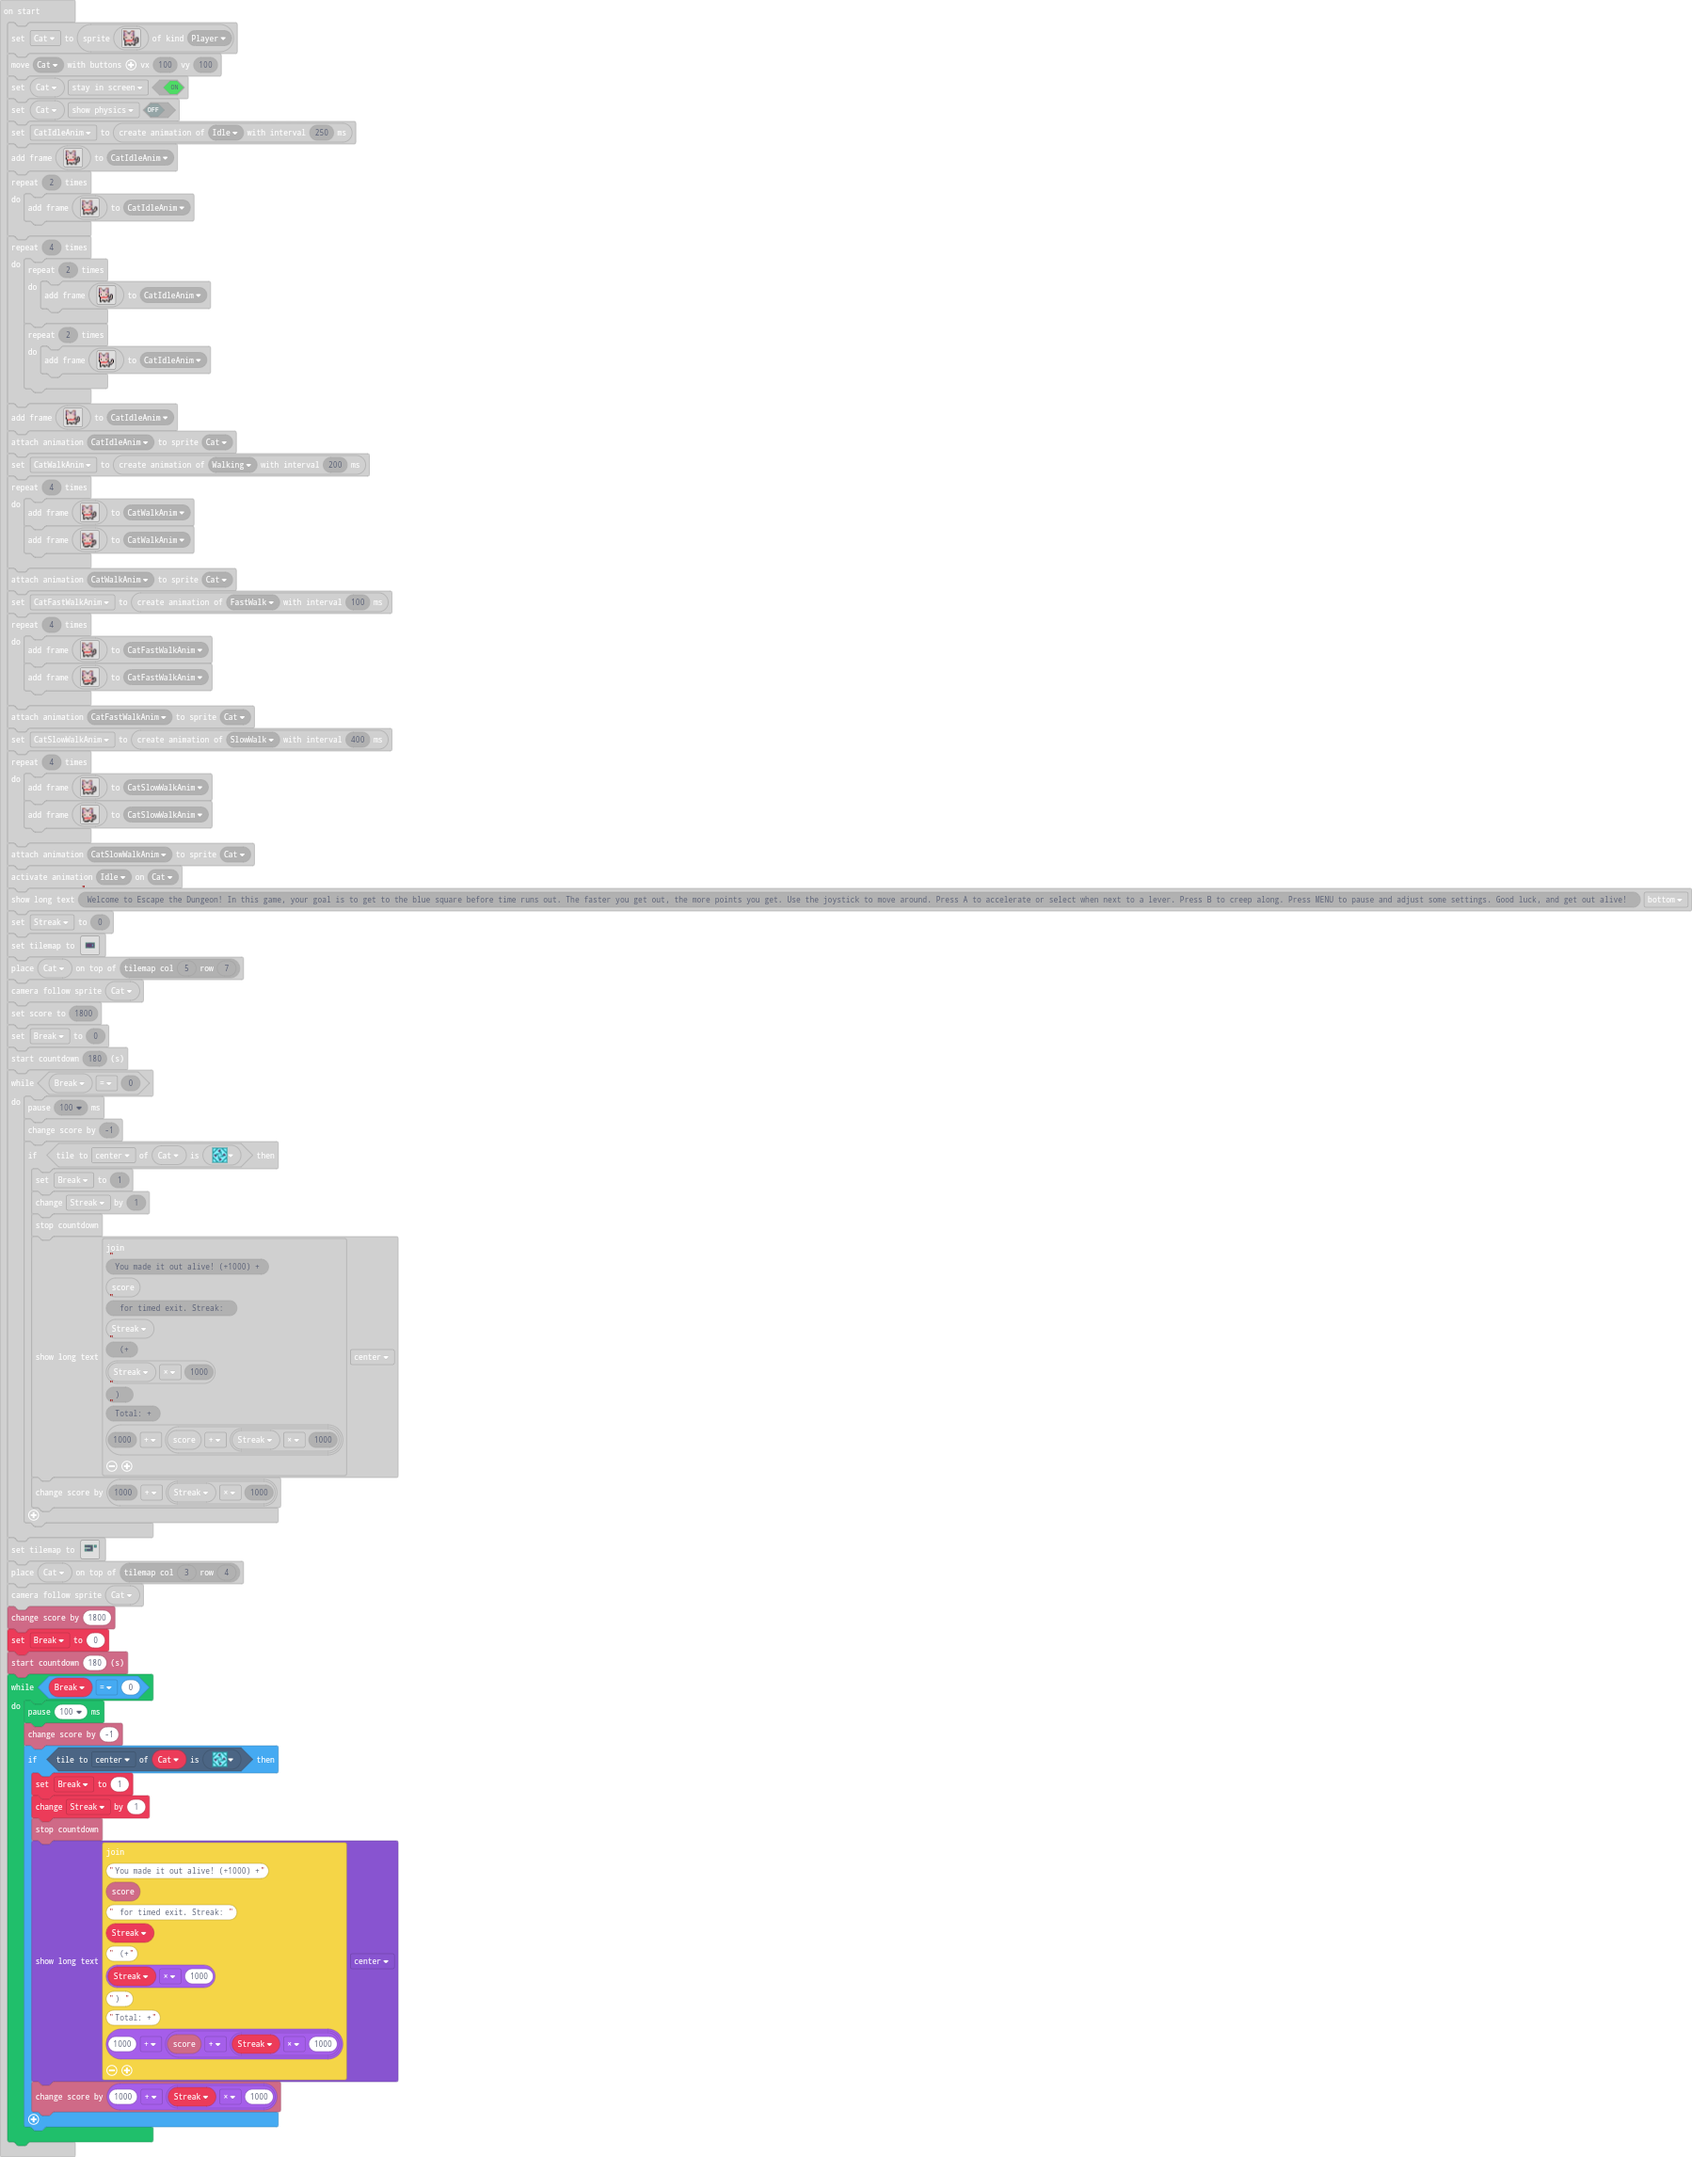
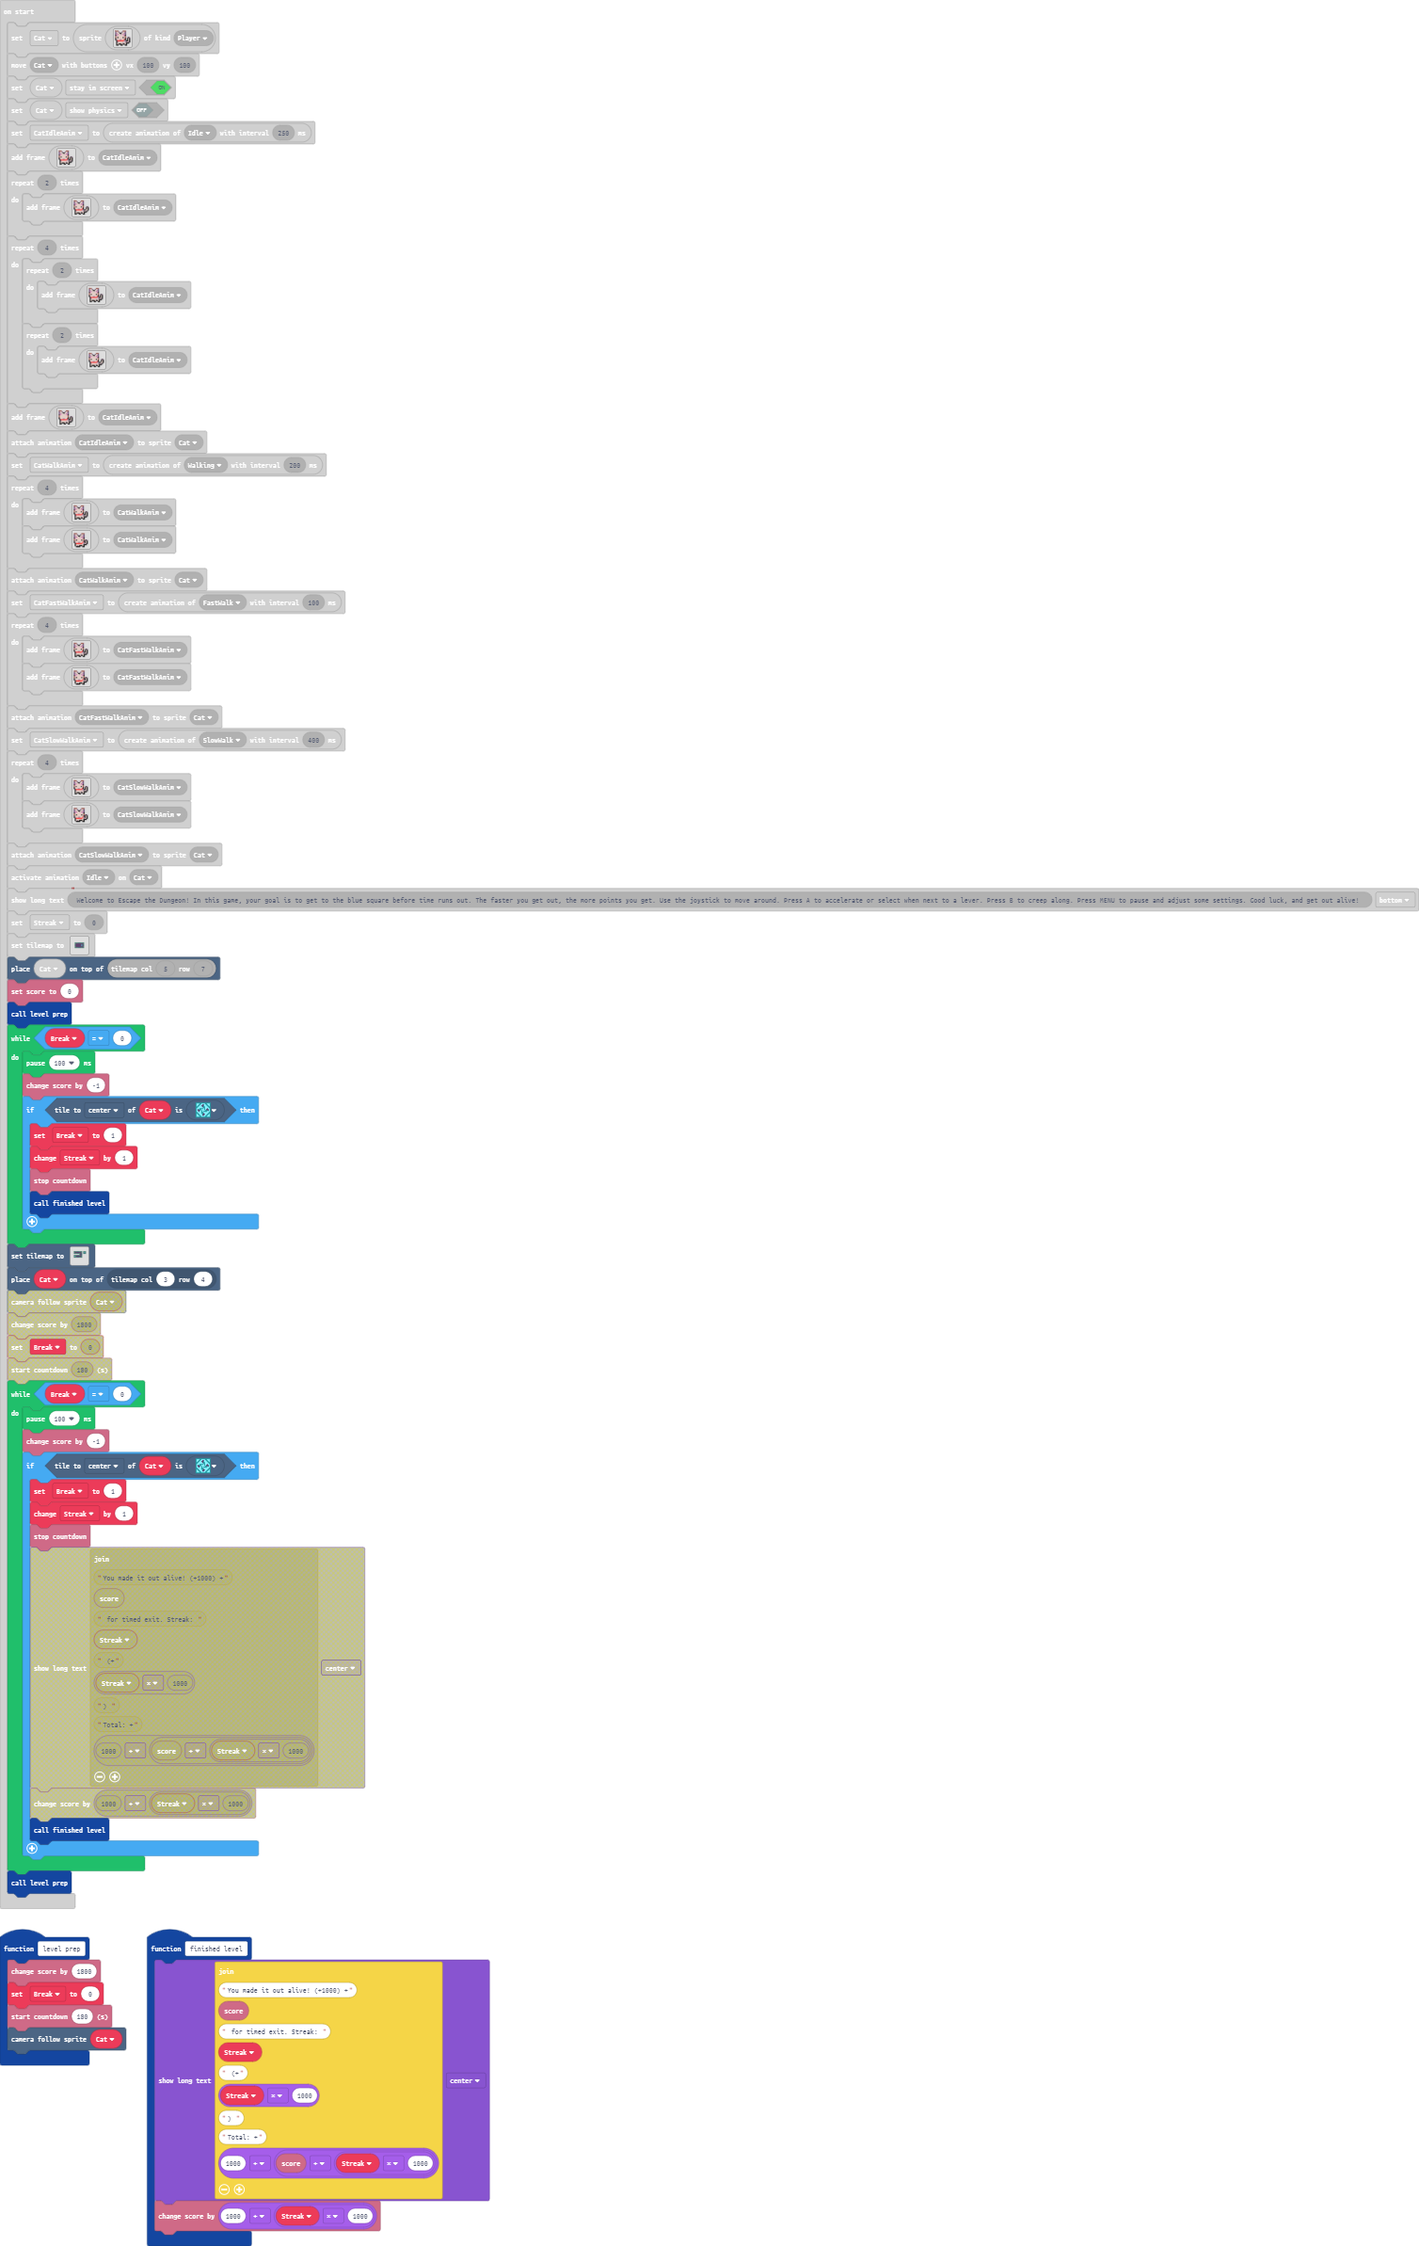
Update main.blocks, main.ts

Changed region(s): [[0.0, 0.0, 1.0, 1.0]]

diff --git a/main.ts b/main.ts
@@ -26,6 +26,16 @@ namespace myTiles {
 . . . . . . . . . . . . . . . . 
 `
 }
+function level_prep () {
+    info.changeScoreBy(1800)
+    Break = 0
+    info.startCountdown(180)
+    scene.cameraFollowSprite(Cat)
+}
+function finished_level () {
+    game.showLongText("You made it out alive! (+1000) +" + info.score() + " for timed exit. Streak: " + Streak + " (+" + Streak * 1000 + ") " + "Total: +" + (1000 + (info.score() + Streak * 1000)), DialogLayout.Center)
+    info.changeScoreBy(1000 + Streak * 1000)
+}
 controller.B.onEvent(ControllerButtonEvent.Pressed, function () {
     controller.moveSprite(Cat, 50, 50)
 })
@@ -38,6 +48,8 @@ controller.A.onEvent(ControllerButtonEvent.Pressed, function () {
 controller.A.onEvent(ControllerButtonEvent.Released, function () {
     controller.moveSprite(Cat, 100, 100)
 })
+let Break = 0
+let Streak = 0
 let Cat: Sprite = null
 Cat = sprites.create(img`
 e e e . . . . e e e . . . . 
@@ -258,7 +270,7 @@ f b d d b b d d 2 b f d f .
 animation.attachAnimation(Cat, CatSlowWalkAnim)
 animation.setAction(Cat, ActionKind.Idle)
 game.showLongText("Welcome to Escape the Dungeon! In this game, your goal is to get to the blue square before time runs out. The faster you get out, the more points you get. Use the joystick to move around. Press A to accelerate or select when next to a lever. Press B to creep along. Press MENU to pause and adjust some settings. Good luck, and get out alive! ", DialogLayout.Bottom)
-let Streak = 0
+Streak = 0
 tiles.setTilemap(tiles.createTilemap(
[1 lines of base64/hex data omitted]
             img`
@@ -283,10 +295,8 @@ tiles.setTilemap(tiles.createTilemap(
             TileScale.Sixteen
         ))
 tiles.placeOnTile(Cat, tiles.getTileLocation(5, 7))
-scene.cameraFollowSprite(Cat)
-info.setScore(1800)
-let Break = 0
-info.startCountdown(180)
+info.setScore(0)
+level_prep()
 while (Break == 0) {
     pause(100)
     info.changeScoreBy(-1)
@@ -294,8 +304,7 @@ while (Break == 0) {
         Break = 1
         Streak += 1
         info.stopCountdown()
-        game.showLongText("You made it out alive! (+1000) +" + info.score() + " for timed exit. Streak: " + Streak + " (+" + Streak * 1000 + ") " + "Total: +" + (1000 + (info.score() + Streak * 1000)), DialogLayout.Center)
-        info.changeScoreBy(1000 + Streak * 1000)
+        finished_level()
     }
 }
 tiles.setTilemap(tiles.createTilemap(
@@ -322,10 +331,7 @@ tiles.setTilemap(tiles.createTilemap(
             TileScale.Sixteen
         ))
 tiles.placeOnTile(Cat, tiles.getTileLocation(3, 4))
-scene.cameraFollowSprite(Cat)
-info.changeScoreBy(1800)
-Break = 0
-info.startCountdown(180)
+level_prep()
 while (Break == 0) {
     pause(100)
     info.changeScoreBy(-1)
@@ -333,8 +339,7 @@ while (Break == 0) {
         Break = 1
         Streak += 1
         info.stopCountdown()
-        game.showLongText("You made it out alive! (+1000) +" + info.score() + " for timed exit. Streak: " + Streak + " (+" + Streak * 1000 + ") " + "Total: +" + (1000 + (info.score() + Streak * 1000)), DialogLayout.Center)
-        info.changeScoreBy(1000 + Streak * 1000)
+        finished_level()
     }
 }
 game.onUpdateInterval(100, function () {
